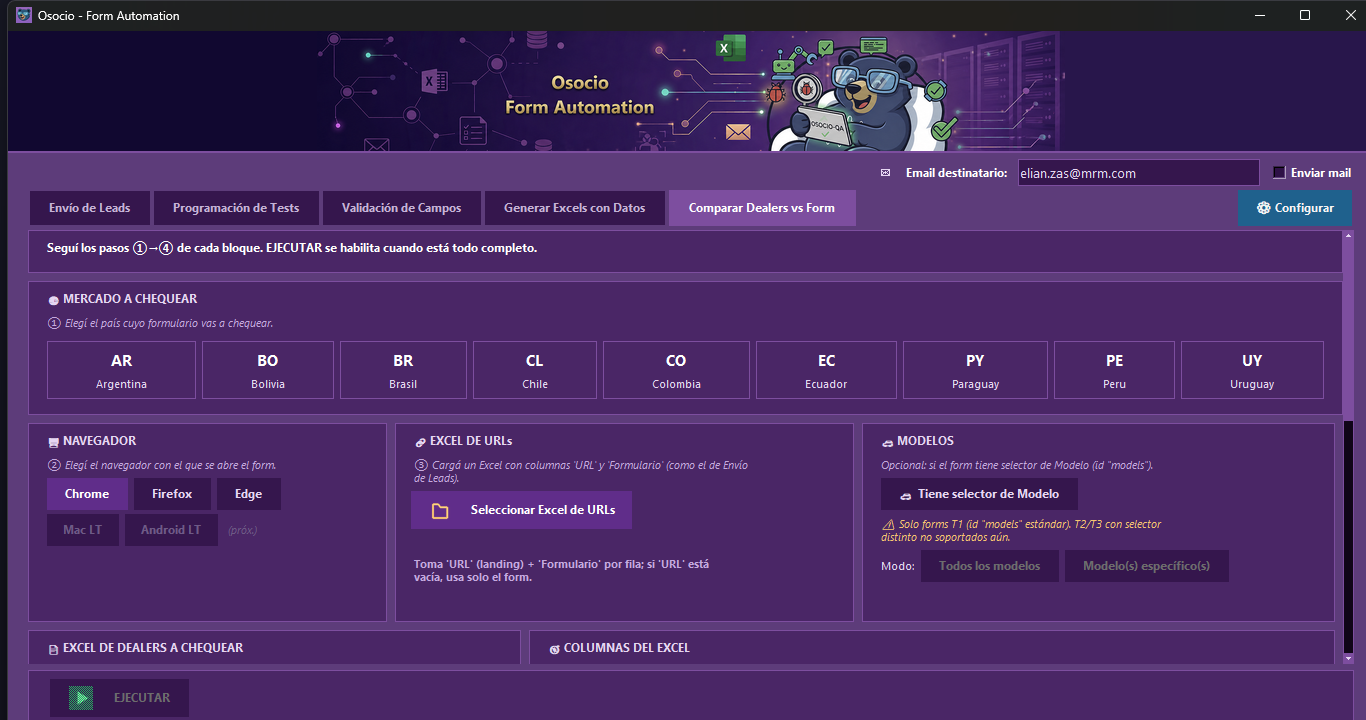
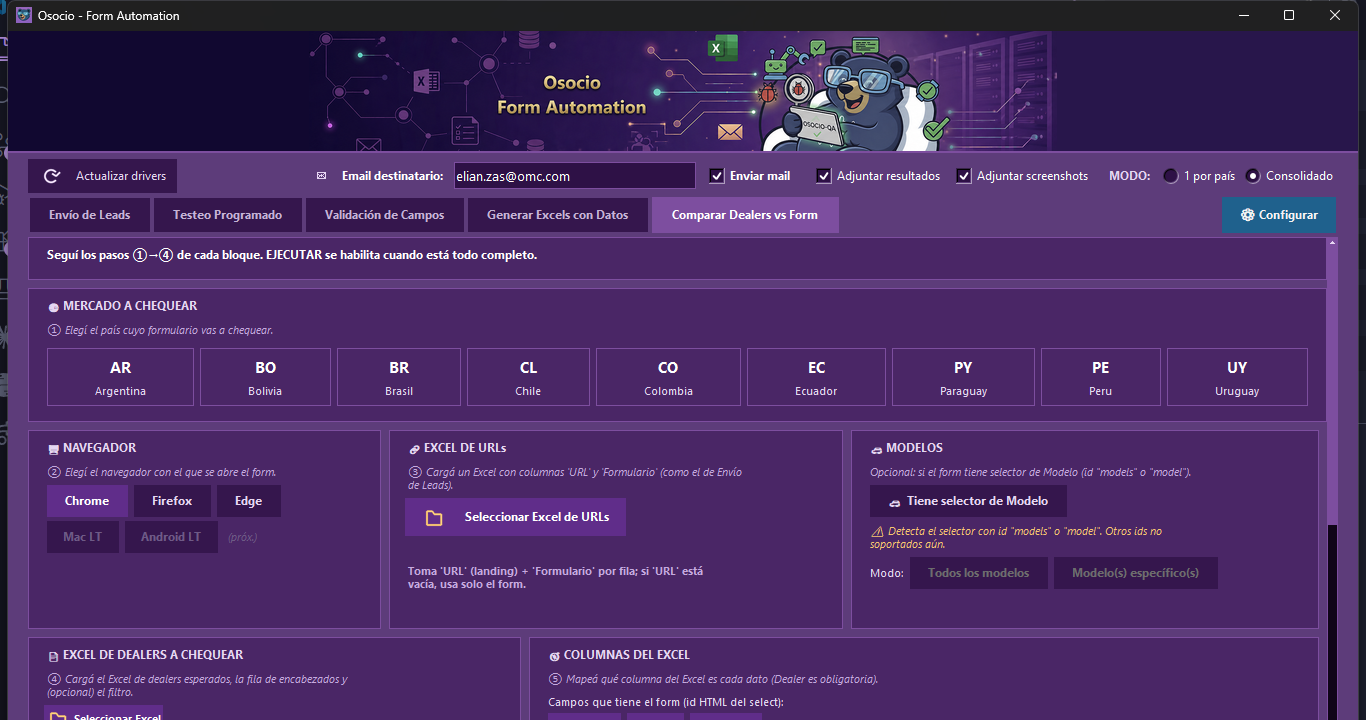
docs: actualiza README y capturas con reintento de fallidos y drivers
Documenta el boton REINTENTAR FALLIDOS (Envio de Leads y Comparador de
Dealers), el estado MISSING, las columnas Posicion Dealer/Ciudad, el
alias models/model, y saca la mencion a Verificar BAC que ya no existe
en pantalla. Capturas de Envio de Leads y Comparador de Dealers
regeneradas contra la app actual.

diff --git a/README.md b/README.md
@@ -208,6 +208,18 @@ Después de enviar el lead, la app no se queda solo con la captura de la TY page
 
 Las capturas de este chequeo se guardan aparte, en `cta_evidence/`. En LambdaTest (Mac/Android) el CTA se reporta igual en el Excel, pero **sin** captura de evidencia.
 
+### 🔁 Reintentar Fallidos
+
+Al lado de **EJECUTAR ENVÍO** está el botón **REINTENTAR FALLIDOS**. Sirve para volver a correr únicamente las filas que fallaron en la última corrida manual, sin tener que mandar de nuevo el lote completo.
+
+- Solo tiene sentido **después de correr un envío manual en esta misma sesión** de la app — la app recuerda, país por país y dispositivo por dispositivo, qué filas exactas fallaron (no solo cuántas).
+- Al apretarlo, cruza los países/dispositivos que tenés **tildados en pantalla ahora mismo** con los que tuvieron fallas en la última corrida, y te muestra un resumen (ej. *"Argentina · Chrome: 5 fila(s)"*) antes de arrancar.
+- Arma un Excel temporal solo con esas filas y corre el envío real apuntando a él — no vuelve a tocar los leads que ya salieron bien.
+- El resultado va a un **Excel nuevo, separado** del original, así conservás la evidencia de ambas corridas.
+- Si reintentás dos veces seguidas, la segunda vez **solo toma lo que sigue fallando**, no vuelve sobre lo que ya se arregló.
+- Cubre los tres navegadores locales (Chrome/Firefox/Edge) y también **Mac LT / Android LT**.
+- Es una acción manual: no aplica a los envíos programados/desatendidos (ahí no hay nadie tildando pantalla).
+
 **La app recuerda tu configuración:** todo lo que elegís en esta pestaña (dispositivos tildados, modo Mercados/Excels, "enviar en paralelo por URL" + su máximo, "T3 2.0", y toda la config de email) se guarda solo, apenas lo cambiás, en `json/config_global.json`. Si cerrás la app y la volvés a abrir, la encontrás tal cual la dejaste — no hace falta volver a tildar todo de nuevo.
 
 ---
@@ -333,9 +345,8 @@ La pestaña sigue una **mini-guía numerada ①→⑤**, toda arriba de la barra
 ![Comparar Dealers — filtro, columnas, salida, email y presets](Asset/screenshots/31_dealers_tab_mid.png)
 
 5. **⑤ COLUMNAS DEL EXCEL** — las píldoras **region / city / dealer** son los **ids reales del `<select>` en el HTML** del form (no cambian de país a país, aunque el texto visible sí: "Provincia" en AR sigue siendo `region`). Desmarcá el nivel que tu form no tenga (ej. sin `dealer`, valida solo región+ciudad). Debajo mapeás qué **columna de tu Excel** es cada nivel (Región=`PROVINCIA`, Ciudad=`CIUDAD`, Dealer=`NOMBRE`, etc.).
-   - **Verificar BAC**: opcional (muchos forms no exponen `data-bac`).
    - **Columnas adicionales a comprobar**: agregás cualquier campo extra (columna del Excel → id del form, ej. `CEP` → `customer-cep`); quedan como píldoras-checkbox activables. Todo se guarda por país.
-6. **Modelos** (opcional) — tildá **"Tiene selector de Modelo"** **solo si la lista de dealers cambia según el modelo** (solo T1 con id `models`). Elegís "Todos los modelos" o "Modelo(s) específico(s)": el comparador repite la revisión de dealers **para cada modelo**. Si los dealers son los mismos sin importar el modelo, **dejalo destildado** — al avanzar el form, si hay un dropdown de modelo, el comparador elige la primera opción válida solo para pasar de paso (si ya viene uno preseleccionado, lo respeta).
+6. **Modelos** (opcional) — tildá **"Tiene selector de Modelo"** **solo si la lista de dealers cambia según el modelo**. El bot prueba tanto el id `models` como `model` (según cómo esté armado el form); si tildaste esta opción y el form no tiene ninguno de los dos, esa fila da **FAIL** en vez de compararse mal en silencio. Elegís "Todos los modelos" o "Modelo(s) específico(s)": el comparador repite la revisión de dealers **para cada modelo**. Si los dealers son los mismos sin importar el modelo, **dejalo destildado** — al avanzar el form, si hay un dropdown de modelo, el comparador elige la primera opción válida solo para pasar de paso (si ya viene uno preseleccionado, lo respeta). Con capturas activadas, cada modelo guarda las suyas en su **propia subcarpeta** (`.../Spark_EUV/`, `.../Captiva_EV/`, …) dentro de la carpeta del form, para que no se mezclen ni se pisen entre sí.
 7. **📦 MODO DE SALIDA** — **"Solo Excel"** o **"Excel + Capturas"**. Con capturas, quedan como PNG sueltos **junto al Excel dentro de la misma carpeta** del form (sin ZIP; lo comprimís vos si querés).
 8. **Envío por email** — no hay configuración de mail dentro de esta pestaña: se controla **solo desde la barra superior de la app** (campo **Email destinatario** + checkbox **Enviar mail**), igual que para el resto de las pestañas. Si al ejecutar el Comparador tenés "Enviar mail" tildado, al terminar **cada form** se manda un mail con su reporte: adjunta la **carpeta completa (Excel + capturas) en un ZIP** si elegiste "Excel + Capturas", o **solo el Excel** si elegiste "Solo Excel". El cuerpo trae el resumen PASS/FAIL/EXTRA/DUPLICADO/OCULTO/NOTA.
 
@@ -361,10 +372,15 @@ La parte de abajo de la pestaña, con los presets guardados y la barra de EJECUT
 |---|---|---|
 | **PASS** | verde | El dealer/combinación está como debe (o correctamente ausente en modo Excluir). |
 | **FAIL** | rojo | No está cuando debía (Incluir) o está cuando no debía (Excluir). |
+| **MISSING** | violeta | Está declarado en tu Excel pero **no se encontró en el form** — a diferencia de FAIL (que sí está, pero algo no coincide), acá directamente no apareció. |
 | **EXTRA** | amarillo | Aparece en el form pero **no está declarado en el Excel** (por su combinación región/ciudad). |
 | **DUPLICADO** | naranja claro | Aparece **más de una vez** en el mismo dropdown del form. |
 | **OCULTO** | naranja | Está en el form pero declarado **solo en filas que no se ven** del Excel (ocultas o filtradas) — todo lo relacionado con filas/columnas no visibles se marca en naranja. |
 | **NOTA** | celeste | Mismo dealer, el nombre difiere solo en **detalles menores** (mayúsculas, apóstrofes/comillas, guiones, paréntesis, sufijos tipo `(1000km)`). Cuenta como OK, con el disclaimer en la columna **"Nota Nombre"**. |
+
+> **Columnas "Posición Dealer" / "Posición Ciudad".** El reporte no solo dice si el dealer/ciudad está bien cargado: también anota en qué lugar del `<select>` real aparece (1º, 2º, 3º…), para comparar contra el orden que esperabas en el Excel. Y el reporte en sí se ordena por el **orden real en que las ciudades aparecen en el dropdown del form** (agrupadas por región), no por el orden de las filas del Excel de origen — queda mucho más fácil de leer.
+
+> **Reintento automático si el form no cargó bien.** Si al abrir el form aparece un mensaje de error de carga (el widget no terminó de inicializar), la app recarga y reintenta hasta 2 veces (esperando 4s y después 8s) antes de dar la fila por perdida; si sigue sin cargar, la omite y lo avisa en el reporte.
 
 > **Nombres con caracteres especiales.** El matching tolera diferencias de puntuación y espaciado: `DANTE D'AMICO S.A. - MATADEROS` matchea con `DANTE D AMICO S.A. – MATADEROS`, y `HCH S.A. - RPM` con `HCH S.A. (RPM)`. Cuentan como PASS con **NOTA**. Lo que **sí** da error es contenido de más o de menos (ej. "Pepito" vs "Pepito Hernández").
 
@@ -391,6 +407,14 @@ La comparación corre dentro de un modal que bloquea la ventana de atrás:
 Mientras corre, la ventana de atrás queda bloqueada (igual que en Envío de Leads):
 
 ![Modal del Comparador sobre la app](Asset/screenshots/19_modal_comparador_sobre_app.png)
+
+### 🔁 Reintentar Fallidos
+
+Al lado de **EJECUTAR** está el botón **REINTENTAR FALLIDOS**: re-chequea únicamente las filas que quedaron en **FAIL** o **MISSING** en la última corrida, sin correr todo el Excel de nuevo.
+
+- Solo funciona sobre la corrida que acabás de hacer en esta misma sesión — necesita la carpeta/reporte original en memoria; si cerraste y volviste a abrir la app, corré la comparación completa de nuevo.
+- Actualiza el **mismo Excel** de resultados (no genera uno aparte) y reemplaza solo las capturas de las filas reintentadas.
+- Trata FAIL y MISSING como el mismo tipo de fallo a los fines del reintento: cualquiera de los dos entra.
 
 ---
 
